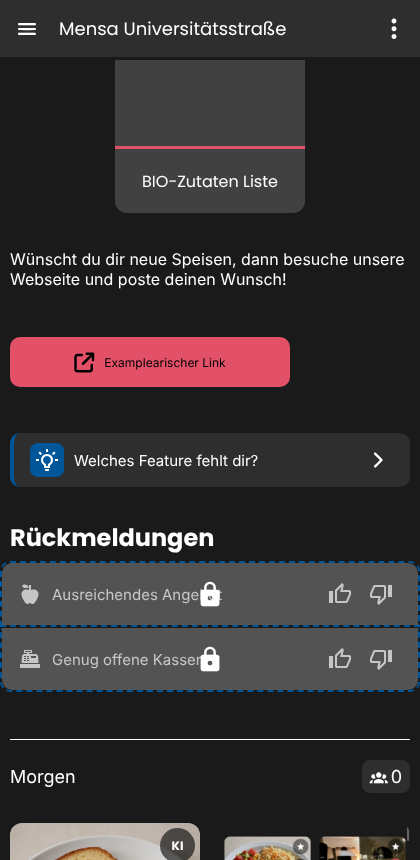
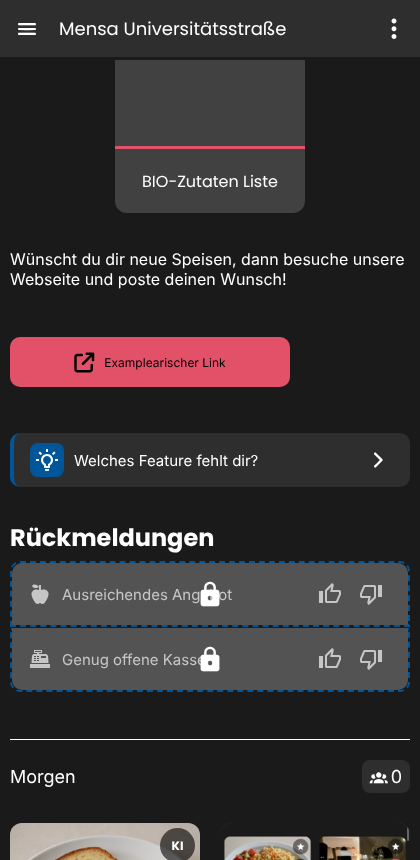
Feedback labels in the food offers with the side spacing of the food cards
Claude-Session: https://claude.ai/code/session_01Q5EVJo4q67Uq6UWj7ePswY

diff --git a/apps/frontend/app/components/FoodOffersScrollList/index.tsx b/apps/frontend/app/components/FoodOffersScrollList/index.tsx
@@ -604,7 +604,7 @@ const FoodOffersScrollList: React.FC<FoodOffersScrollListProps> = ({ canteenId, 
 				{index === 0 && <NewsFoodoffersHint canteenId={canteenId} position={NewsFoodoffersPositions.bottom} />}
 				{index === 0 && <FeatureWishesTile />}
 				{feedbacks && feedbacks.length > 0 && (
-					<View style={styles.feebackContainer}>
+					<View style={[styles.feebackContainer, { paddingHorizontal: itemGap }]}>
 						<Text style={[styles.feedbackLabelsTitle, { color: theme.screen.text }]}>
 							{translate(TranslationKeys.feedback_labels)}
 						</Text>

diff --git a/apps/frontend/app/config.ts b/apps/frontend/app/config.ts
@@ -302,7 +302,8 @@ export function getVersionPatch() {
         // 180: food offers news cards cannot be hidden (no x, no "do not show again"), only popups can
         // 181: news cards in the food offers are a SettingsList row with accent colour
         // 182: feature wishes tile with accent, both food offers tiles with the side spacing of the food cards
-        return 182;
+        // 183: feedback labels in the food offers with the side spacing of the food cards
+        return 183;
 }
 
 export function getVersionInternalForAppsettingsScreen() {

diff --git a/apps/frontend/app/components/FoodOffersScrollList/styles.ts b/apps/frontend/app/components/FoodOffersScrollList/styles.ts
@@ -40,7 +40,6 @@ export default StyleSheet.create({
 	feedbackLabelsTitle: {
 		fontSize: 24,
 		fontFamily: 'Poppins_700Bold',
-		paddingHorizontal: 10,
 		marginBottom: 6,
 	},
 	elementContainer: {
